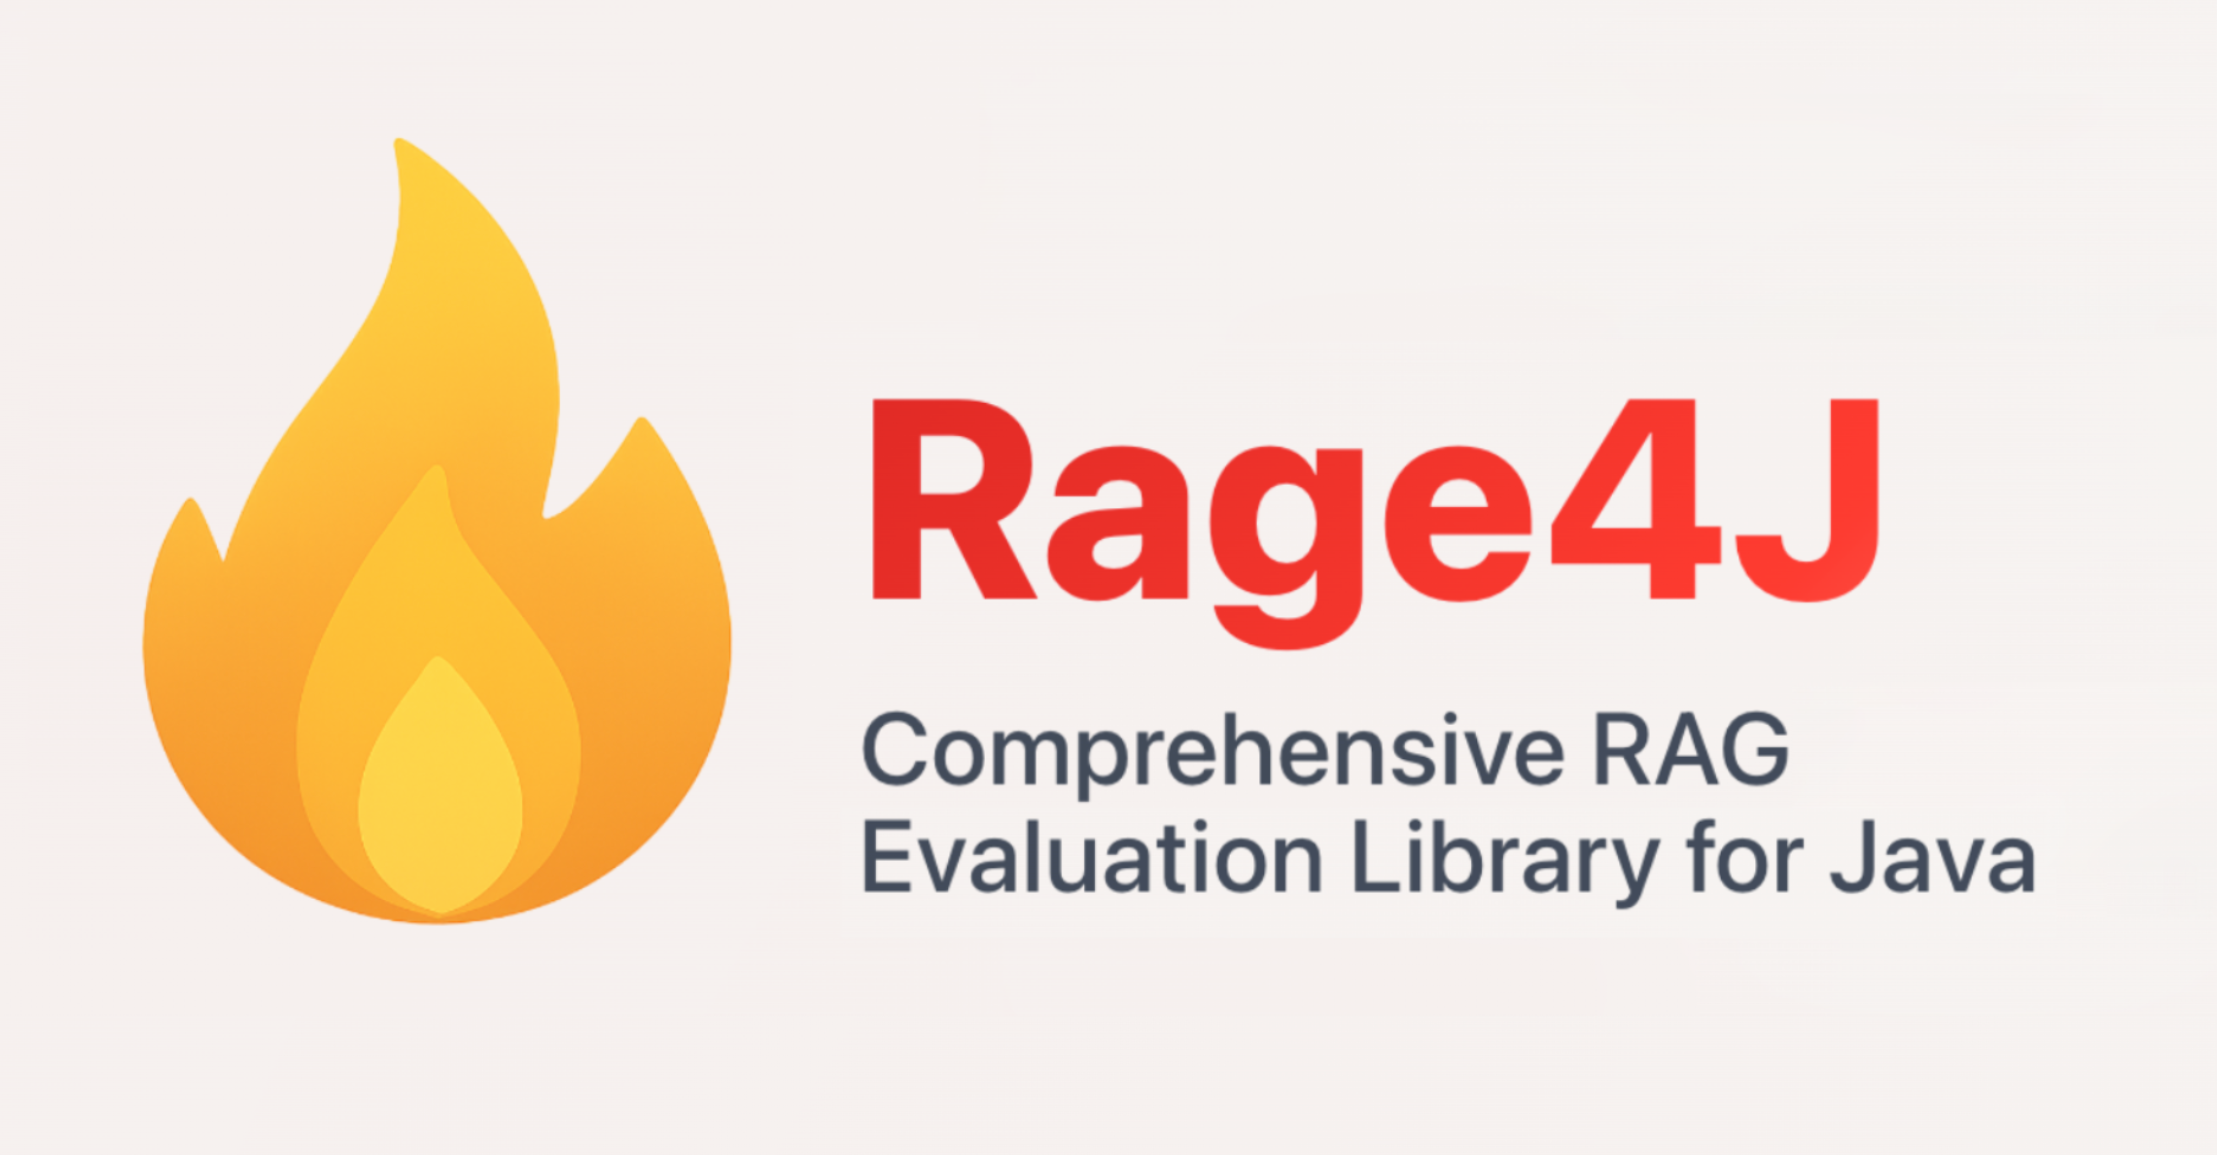
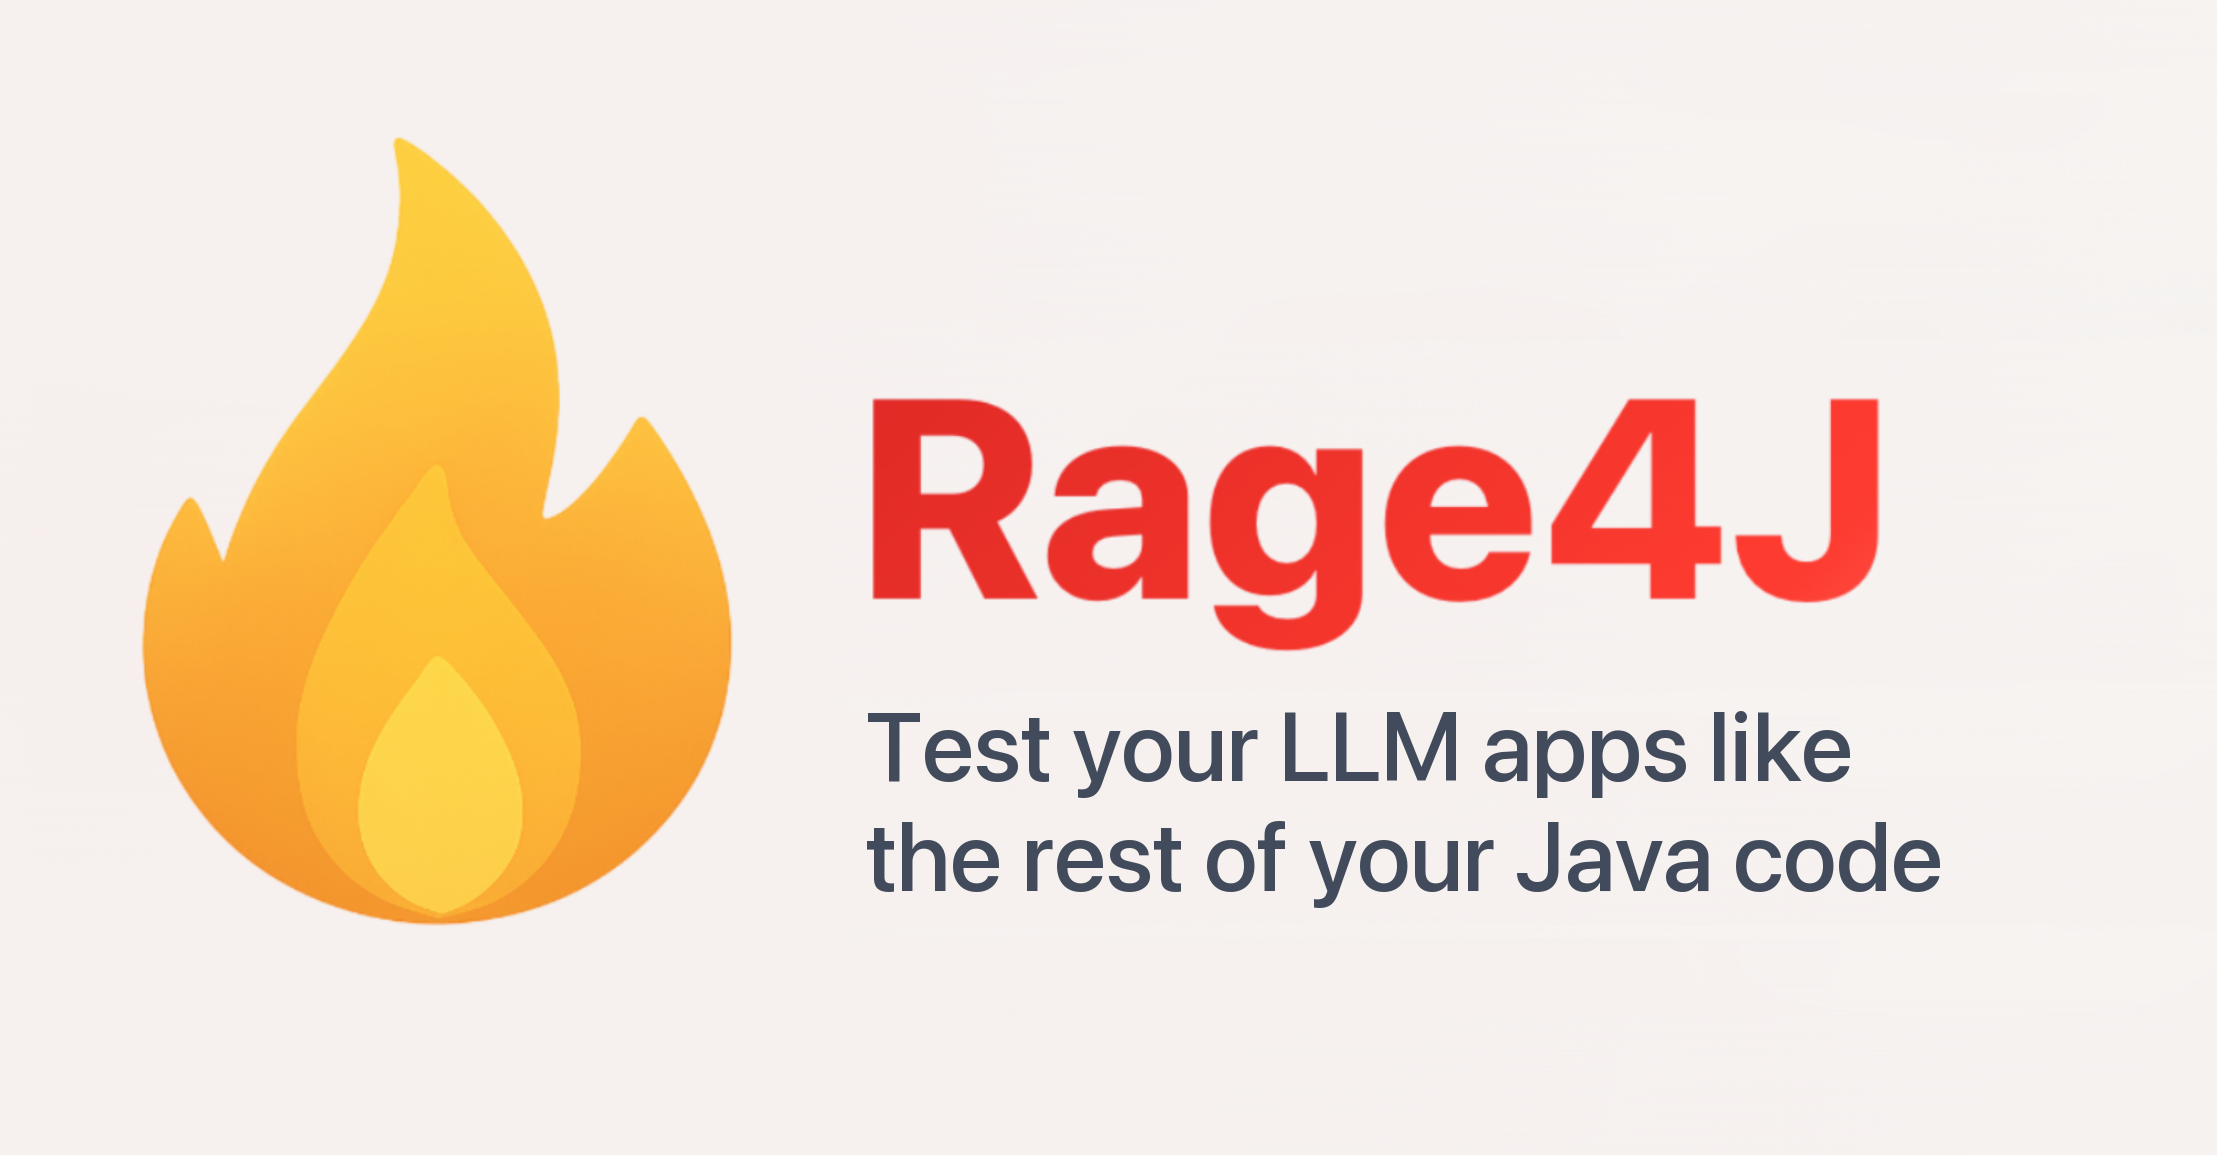
💄 new tagline: test your LLM apps like the rest of your Java code
Claude-Session: https://claude.ai/code/session_01Lio9hr2Le92YCmeB62puJW

Changed region(s): [[0.3735, 0.5922, 0.9337, 0.7792]]

diff --git a/docusaurus/docusaurus.config.ts b/docusaurus/docusaurus.config.ts
@@ -4,7 +4,7 @@ import type * as Preset from "@docusaurus/preset-classic";
 
 const config: Config = {
     title: "Rage4J",
-    tagline: "Comprehensive RAG Evaluation Library for Java",
+    tagline: "Test your LLM apps like the rest of your Java code",
     favicon: "img/favicon.ico",
 
     url: "https://rage4j.dev",
@@ -27,21 +27,21 @@ const config: Config = {
             tagName: 'meta',
             attributes: {
                 name: 'description',
-                content: 'Evaluate RAG systems with multiple metrics including answer correctness, relevance, faithfulness and more.',
+                content: 'Evaluate RAG pipelines and AI agents in plain JUnit tests, with metrics for answer correctness, relevance, faithfulness, tool call accuracy and more.',
             },
         },
         {
             tagName: 'meta',
             attributes: {
                 property: 'og:title',
-                content: 'Rage4J - RAG Evaluation Library for Java',
+                content: 'Rage4J - Test your LLM apps like the rest of your Java code',
             },
         },
         {
             tagName: 'meta',
             attributes: {
                 property: 'og:description',
-                content: 'Evaluate RAG systems with multiple metrics including answer correctness, relevance, faithfulness and more.',
+                content: 'Evaluate RAG pipelines and AI agents in plain JUnit tests, with metrics for answer correctness, relevance, faithfulness, tool call accuracy and more.',
             },
         },
         {
@@ -76,14 +76,14 @@ const config: Config = {
             tagName: 'meta',
             attributes: {
                 name: 'twitter:title',
-                content: 'Rage4J - RAG Evaluation Library for Java',
+                content: 'Rage4J - Test your LLM apps like the rest of your Java code',
             },
         },
         {
             tagName: 'meta',
             attributes: {
                 name: 'twitter:description',
-                content: 'Evaluate RAG systems with multiple metrics including answer correctness, relevance, faithfulness and more.',
+                content: 'Evaluate RAG pipelines and AI agents in plain JUnit tests, with metrics for answer correctness, relevance, faithfulness, tool call accuracy and more.',
             },
         },
         {
@@ -97,7 +97,7 @@ const config: Config = {
             tagName: 'meta',
             attributes: {
                 name: 'twitter:image:alt',
-                content: 'Rage4J - RAG Evaluation Library for Java',
+                content: 'Rage4J - Test your LLM apps like the rest of your Java code',
             },
         },
     ],
@@ -123,27 +123,27 @@ const config: Config = {
         metadata: [
             {
                 name: 'description',
-                content: 'Rage4J - Comprehensive RAG Evaluation Library for Java. Evaluate your Retrieval-Augmented Generation systems with multiple metrics including answer correctness, relevance, faithfulness and more.'
+                content: 'Rage4J - Test your LLM apps like the rest of your Java code. Evaluate RAG pipelines and AI agents in plain JUnit tests, with metrics for answer correctness, relevance, faithfulness, tool call accuracy and more.'
             },
-            {property: 'og:title', content: 'Rage4J - RAG Evaluation Library for Java'},
+            {property: 'og:title', content: 'Rage4J - Test your LLM apps like the rest of your Java code'},
             {
                 property: 'og:description',
-                content: 'Comprehensive RAG Evaluation Library for Java. Evaluate your Retrieval-Augmented Generation systems with multiple metrics including answer correctness, relevance, faithfulness and more.'
+                content: 'Evaluate RAG pipelines and AI agents in plain JUnit tests, with metrics for answer correctness, relevance, faithfulness, tool call accuracy and more.'
             },
             {property: 'og:url', content: 'https://rage4j.dev/'},
             {property: 'og:type', content: 'website'},
-            {property: 'og:image', content: 'https://rage4j.dev/img/rage4j.png'},
-            {property: 'og:image:alt', content: 'Rage4J Logo - RAG Evaluation Library for Java'},
+            {property: 'og:image', content: 'https://rage4j.dev/img/opengraph.png'},
+            {property: 'og:image:alt', content: 'Rage4J - Test your LLM apps like the rest of your Java code'},
             {property: 'og:site_name', content: 'Rage4J'},
             {property: 'og:locale', content: 'en_US'},
             {name: 'twitter:card', content: 'summary_large_image'},
-            {name: 'twitter:title', content: 'Rage4J - RAG Evaluation Library for Java'},
+            {name: 'twitter:title', content: 'Rage4J - Test your LLM apps like the rest of your Java code'},
             {
                 name: 'twitter:description',
-                content: 'Comprehensive RAG Evaluation Library for Java. Evaluate your Retrieval-Augmented Generation systems with multiple metrics.'
+                content: 'Evaluate RAG pipelines and AI agents in plain JUnit tests.'
             },
-            {name: 'twitter:image', content: 'https://rage4j.dev/img/rage4j.png'},
-            {name: 'twitter:image:alt', content: 'Rage4J Logo - RAG Evaluation Library for Java'},
+            {name: 'twitter:image', content: 'https://rage4j.dev/img/opengraph.png'},
+            {name: 'twitter:image:alt', content: 'Rage4J - Test your LLM apps like the rest of your Java code'},
             {
                 name: 'keywords',
                 content: 'RAG, Retrieval Augmented Generation, Java, Evaluation, Metrics, AI, Machine Learning, NLP'

diff --git a/docusaurus/src/pages/index.tsx b/docusaurus/src/pages/index.tsx
@@ -81,7 +81,7 @@ function HomepageHeader() {
                     />
                     <div className={styles.heroText}>
                         <h1 className="heroTitle">Rage4J</h1>
-                        <p className="heroDescription">Comprehensive RAG Evaluation Library for Java</p>
+                        <p className="heroDescription">Test your LLM apps like the rest of your Java code</p>
                         <div className={styles.buttons}>
                             <Link className="button button--secondary button--lg" to="/docs/intro">
                                 Get Started →

diff --git a/README.md b/README.md
@@ -7,7 +7,7 @@
 
 # Rage4J
 
-RAG Evaluation library for Java.
+Test your LLM apps like the rest of your Java code.
 
 ## Overview
 
